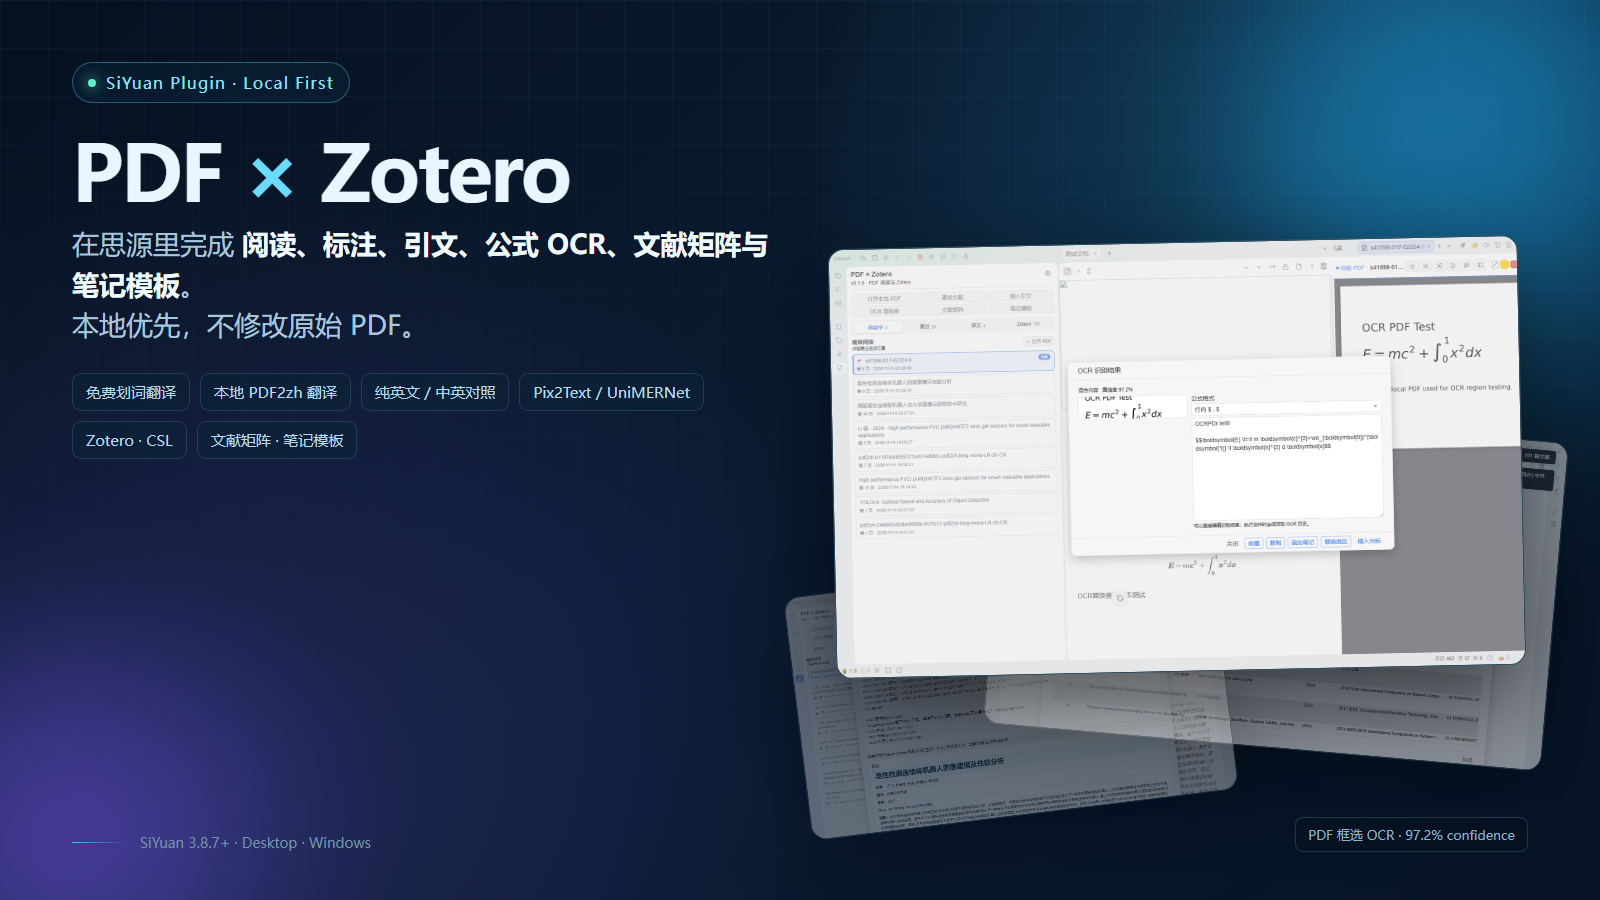
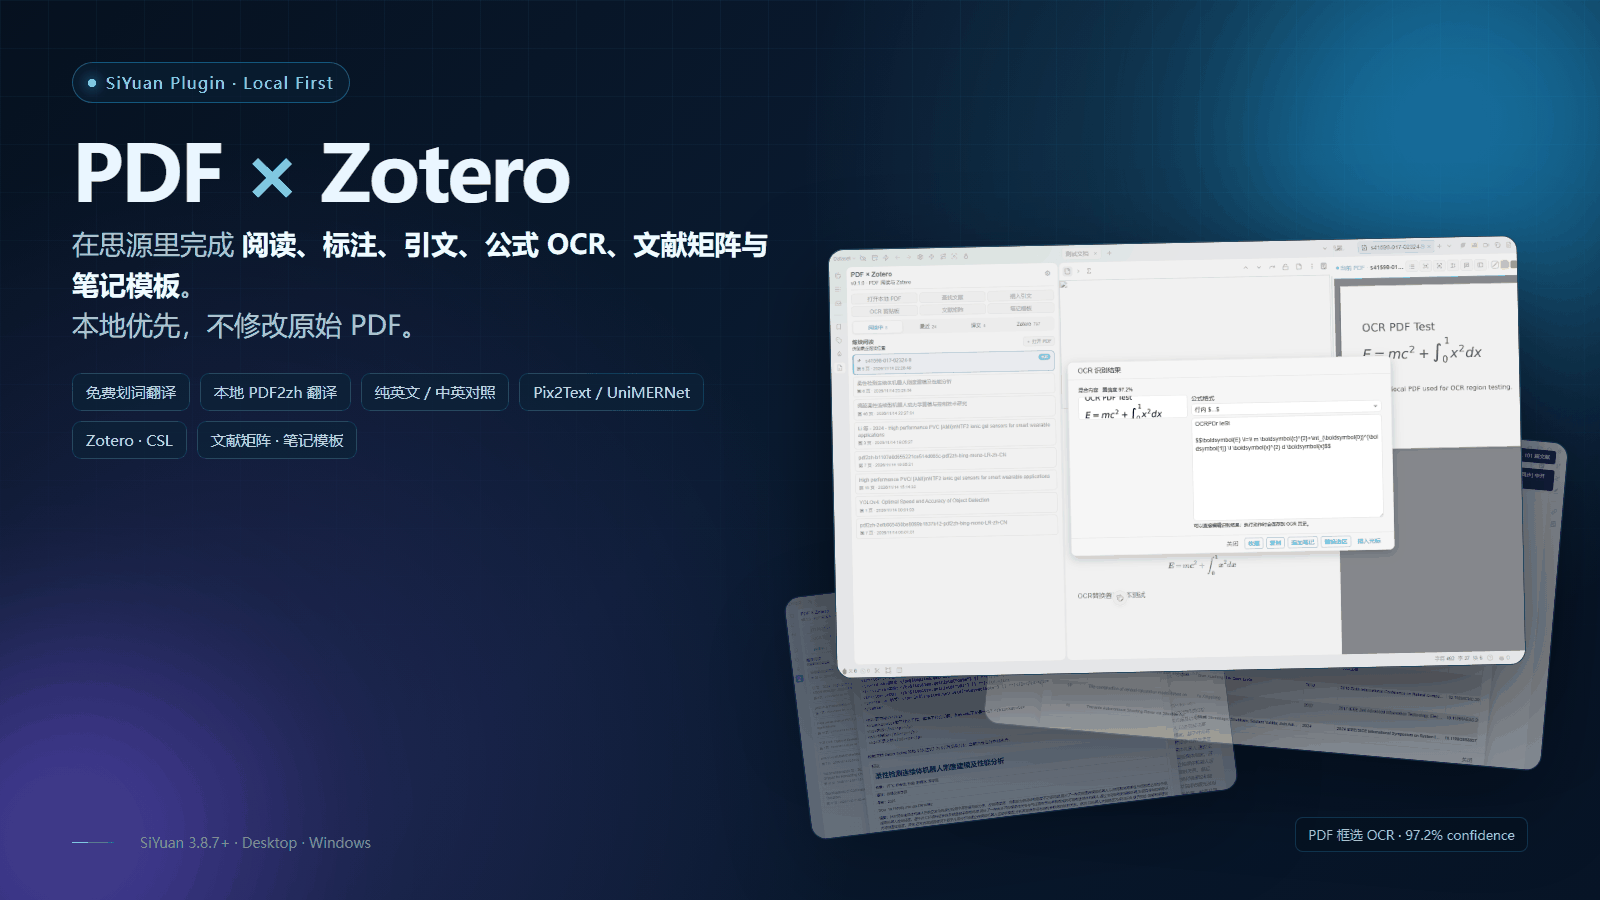
v0.9.63: bazaar package.zip release pipeline

diff --git a/CHANGELOG.md b/CHANGELOG.md
@@ -1,5 +1,16 @@
 # Changelog
 
+## v0.9.63
+
+- 上架思源集市准备版：Release 附件改名为 `package.zip`（集市 Stage 只认这个名字），发布流程改为 GitHub Actions tag 触发自动构建；
+- 版本号同步：`plugin.json` / `package.json` / `package-lock.json` 统一到 `0.9.63`；
+- 发布包不含 `index.js.map`，体积更小、不泄露构建机路径；
+- `package.zip` 同时带上 `docs/screenshots/`，集市「说明文档」里的截图不再 404；
+- `plugin.json` 多语言键改用 BCP-47 标准写法 `zh-CN`（原 `zh_CN` 不会被识别）；
+- `preview.png` 压缩到 241 KB 并声明 `preview` 字段（集市上限 512 KB）；
+- 新增 `LICENSE`（MIT）；
+- 功能与 0.9.62 相同，详见下方各版说明。
+
 ## v0.9.62
 
 - Zotero 标题行合并为单行，去掉匹配数；在线/离线/未连接改为同款按钮样式（绿/黄/灰），与刷新横排等大、不可点击；
